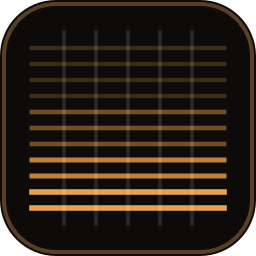
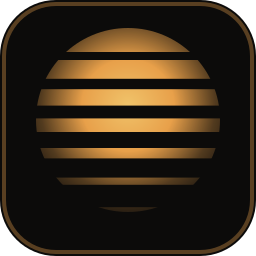
docs: redesign identity — one-image hero, glow mark, before/after diagram
- mark.svg: lamp glowing through cloth bands, denser at the hem; reads at 32px
- banner.svg: single lockup (mark motif + wordmark + tagline) so the hero
  needs one image instead of three
- diagram.svg: replaces the ASCII before/after box — passing lines stop at
  the cloth, the FAIL thread passes through, real [scrim] footer format
- README: first screen is what/why/install; reducer, Codex, privacy parked
  below; all product facts unchanged
- og.png / mark.png regenerated from the new SVGs

diff --git a/README.md b/README.md
@@ -1,16 +1,9 @@
 <p align="center">
-  <img src="assets/mark.svg" width="72" height="72" alt="Scrim mark">
-</p>
-
-<h1 align="center">Scrim</h1>
-
-<p align="center">
-  <em>The cloth between the tool and the model.</em>
+  <img src="assets/banner.svg" width="100%" alt="Scrim — the cloth between the tool and the model. A lamp glowing through a hanging cloth.">
 </p>
 
 <p align="center">
-  Signal goes through. Glare does not.<br>
-  Cost observability and tool-output optimization for <a href="https://code.claude.com">Claude Code</a>.
+  <strong>Signal goes through. Glare does not.</strong>
 </p>
 
 <p align="center">
@@ -20,42 +13,17 @@
   <img src="https://img.shields.io/badge/license-MIT-16120e?style=flat-square&labelColor=0c0b0a" alt="MIT">
 </p>
 
-<p align="center">
-  <img src="assets/banner.svg" width="100%" alt="A weave that opens from left to right — dense noise, then light">
-</p>
-
----
+<br>
 
 In a theater, a **scrim** hangs in front of the lamp. The scene stays lit. The bulb never hits your eyes.
 
-Coding agents don't have one. They read every passing test, the full `ls -R`, and six Chrome screenshots — then you pay (or compact) for the glare.
+Coding agents don't have one. They read every passing test, the full `ls -R`, and six Chrome screenshots — then you pay (or compact) for the glare. Scrim hangs in front of the tool result:
 
-Scrim hangs in front of the tool result.
+<p align="center">
+  <img src="assets/diagram.svg" width="100%" alt="npm test emits 4,212 lines. Passing lines stop at the scrim; the failing test, its assertion, and a retrieval footer pass through — 183,412 bytes in, 236 bytes out.">
+</p>
 
-```
-  npm test · 4,212 lines                         what the model reads
-┌────────────────────────────┐                 ┌──────────────────────┐
-│ PASS auth   (42)           │                 │ FAIL checkout        │
-│ PASS cart   (38)           │     scrim       │ AssertionError       │
-│ PASS orders (57)           │  ───────────►   │ expected 500 == 502  │
-│ FAIL checkout              │                 │ at checkout.test:118 │
-│ PASS shipping (22)         │                 │                      │
-│ … 4,180 more passing …     │                 │ [scrim] 4212 → 34 B  │
-└────────────────────────────┘                 └──────────────────────┘
-```
-
-`Read` and `Edit` never go through it. Hooks **fail open** — on any error the agent sees the original result. It does not switch your model.
-
-## Four jobs
-
-| Job | Where | What |
-|---|---|---|
-| **See** | Transcripts + hooks | Cache-read share, list-price $, MB by tool and kind |
-| **Prevent** | `PreToolUse` | `ls -R` / `find` / `rg` capped *before* they run |
-| **Thin** | `PostToolUse` | Tests, logs, grep, listings, Chrome images, fat JSON |
-| **Delegate** | Subagents | `/scrim` and stash retrieve run on **Haiku**, not your session model |
-
-Swarm watch counts open subagents and warns after eight. Claude Code will not let a hook cancel a spawn.
+Three things it will never do: touch `Read` or `Edit`, break your session (hooks **fail open** — on any error the agent sees the original result), or switch your model.
 
 ## Install
 
@@ -64,21 +32,14 @@ git clone git@github.com:nikshepsvn/scrim.git
 claude --plugin-dir "$(cd scrim && pwd)"
 ```
 
-Private marketplace (needs GitHub auth):
+Or from the private marketplace (needs GitHub auth):
 
 ```text
 /plugin marketplace add nikshepsvn/scrim
 /plugin install scrim@scrim
 ```
 
-Restart Claude Code. Run a tool. Then `/scrim`.
-
-```bash
-make test                        # hermetic, stdlib only
-python3 scripts/scrim.py doctor  # if nothing shows up
-```
-
-## `/scrim`
+Restart Claude Code. Run a tool. Then `/scrim`:
 
 ```
 Scrim
@@ -92,18 +53,20 @@ Tools  (this plugin)
   stashed originals  12  (scrim get <id>)
 ```
 
-```bash
-python3 scripts/scrim.py --today           # local calendar day (add --json for machines)
-python3 scripts/scrim.py --backfill        # lifetime, retries deduped
-python3 scripts/scrim.py get <id> 118-130  # slice of an omitted original
-python3 scripts/scrim.py stashes           # what's retrievable
-python3 scripts/scrim.py kinds             # where the MB went, by kind
-python3 scripts/scrim.py doctor            # is the chain healthy
-python3 scripts/scrim.py prune             # trim old metrics + stash
-python3 scripts/scrim.py --config          # effective config + warnings
-```
-
 Those dollars are **list prices** (Fable at Fable rates, Opus at Opus rates). Max/Ultra is a subscription — you are looking at quota shape, not a card charge.
+
+If nothing shows up: `python3 scripts/scrim.py doctor`. Tests are hermetic, stdlib only: `make test`.
+
+## Four jobs
+
+| Job | Where | What |
+|---|---|---|
+| **See** | Transcripts + hooks | Cache-read share, list-price $, MB by tool and kind |
+| **Prevent** | `PreToolUse` | `ls -R` / `find` / `rg` capped *before* they run |
+| **Thin** | `PostToolUse` | Tests, logs, grep, listings, Chrome images, fat JSON |
+| **Delegate** | Subagents | `/scrim` and stash retrieve run on **Haiku**, not your session model |
+
+Swarm watch counts open subagents and warns after eight. Claude Code will not let a hook cancel a spawn.
 
 ## What gets through
 
@@ -122,13 +85,24 @@ If the rewrite would not actually be smaller, the original goes through. PreTool
 
 gzip does not reduce tokens. The model has to read text.
 
-Omitted bytes are stashed under `~/.scrim/blobs/` for seven days. Pull a slice with `scrim get` — preferably via the **scrim-retrieve** subagent, so the parent never loads the blob.
+**Nothing is lost.** Omitted bytes are stashed under `~/.scrim/blobs/` for seven days. Pull a slice with `scrim get` — preferably via the **scrim-retrieve** subagent, so the parent never loads the blob.
 
-Copy [`config.example.json`](config.example.json) → `~/.scrim/config.json`. `"shrink": false` logs only. Every key: [docs/config.md](docs/config.md).
+To tune it, copy [`config.example.json`](config.example.json) → `~/.scrim/config.json`. `"shrink": false` logs only. Every key: [docs/config.md](docs/config.md). Old `~/.sift` / `~/.spend` directories are renamed on first run.
 
-Old `~/.sift` / `~/.spend` directories are renamed on first run.
+## The CLI
 
-## Optional extract
+```bash
+python3 scripts/scrim.py --today           # local calendar day (add --json for machines)
+python3 scripts/scrim.py --backfill        # lifetime, retries deduped
+python3 scripts/scrim.py get <id> 118-130  # slice of an omitted original
+python3 scripts/scrim.py stashes           # what's retrievable
+python3 scripts/scrim.py kinds             # where the MB went, by kind
+python3 scripts/scrim.py doctor            # is the chain healthy
+python3 scripts/scrim.py prune             # trim old metrics + stash
+python3 scripts/scrim.py --config          # effective config + warnings
+```
+
+## Optional: extract with a model
 
 Filters are the default. For logs that still need a brain, turn on OpenRouter. **`inception/mercury-2`** was the only model in our bake-off that behaved like a reducer at hook latency. Use ≥4096 completion tokens.
 

diff --git a/CHANGELOG.md b/CHANGELOG.md
@@ -1,5 +1,9 @@
 # Changelog
 
+## Unreleased
+
+Identity redesign: lamp-through-cloth mark, single banner lockup, and a before/after diagram (`assets/diagram.svg`) replacing the ASCII box. README restructured — what / why / install first, reducer and Codex parked below.
+
 ## 0.7.0
 
 CLI grows up: `doctor`, `kinds`, `stashes`, `prune`, `--json`, `--version`.
